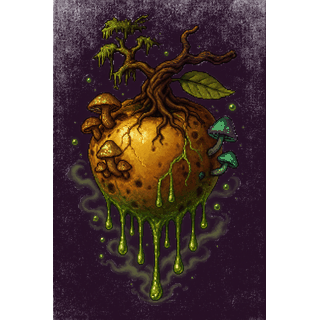
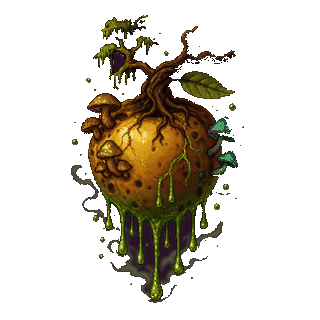
Árvore: maçãs douradas nos 7 nós de fruto (entrega A do handoff de 2026-09-25)
- drawFruit() desenha a arte aprovada 320x320 no lugar do polígono
  procedural; quadro de 150 px no zoom 1 (decisão do usuário), raio de
  clique acompanha (min. 22 px de toque), coordenadas inalteradas
- fruto bloqueado: versão acromática assada 1x + correntes_cadeados
  (Deserto usa a variante do bioma); Pálida: branca + correntes_tranca
- sem número no fruto (decisão do usuário): a trajetória 1-7 se lê pelo
  caminho dos galhos; rodapé ajustado
- MANIFEST: 7 maca_* + 3 correntes_* no boot; ASSET_V 20260925
- fruitAssetName(): mapeamento topo->palida único (jogo + teste)
- assets.mjs: 2 checks novos (maçãs e correntes no boot)
- corrige fundo violeta opaco/residual em 9 PNGs (crescimento de região
  a partir das bordas; muda só o alfa do fundo, arte intacta)
- MEGA_ARQUIVO, PROXIMOS_PASSOS e README de game/assets/ui atualizados;
  docs.mjs íntegro (6 documentos, 109554 bytes)

Testes: npm test 25/25; inspect 30 cenas sem erros/404/glifos;
inspect:tree PC/mobile 60 FPS; inspect:layout 108 estados limpos;
mobile.mjs ok

diff --git a/game/js/meta.js b/game/js/meta.js
@@ -10,7 +10,7 @@ import { SFX } from "./audio.js";
 import { clamp, TAU } from "./utils.js";
 import {
   TREE_ART, TREE_NODES, TREE_BY_ID, TREE_ALL, TREE_STAGE_NODES, TREE_STAGE_BOUNDS,
-  TREE_NODE_RADII, fruitCenter, fruitGridSlot,
+  TREE_NODE_RADII, fruitCenter, fruitGridSlot, fruitAssetName,
 } from "./tree_layout.js";
 import { treeArtCanvas, treeGrowth } from "./tree_art.js";
 
@@ -83,7 +83,7 @@ function pickAt(x, y) {
   }
   for (let i = 0; i < 7; i++) {
     const p = fruitPoints[i], d = Math.hypot(x - p.x, y - p.y);
-    if (d < Math.max(22, 60 * zoom) && d < nearest) {
+    if (d < Math.max(22, FRUIT_FRAME / 2 * zoom) && d < nearest) {
       nearest = d; hoverFruit = FRUIT_TREES[i]; hoverNode = null;
     }
   }
@@ -217,21 +217,69 @@ function drawNode(ctx, n) {
     drawText(ctx, label, p.x, py + 1, { align: "center", scale, color: lvl >= max ? "#ffd479" : unlocked ? PAL.text : PAL.textDim });
   }
 }
+// Maçãs dos frutos (entrega A do handoff, 2026-09-27): a arte aprovada
+// 320×320 substitui o polígono procedural. Quadro de 150 px no zoom 1
+// (decisão do usuário); o raio de clique acompanha o quadro — a
+// coordenada do fruto NUNCA muda (validada pelo treemap.mjs).
+// Sem número no fruto: a trajetória 1→7 se lê pelo caminho dos galhos
+// (decisão do usuário, 2026-09-27 — o número segue na lista de patamares).
+const FRUIT_FRAME = 150;
+const FRUIT_GRAY = new Map();
+
+/** Versão acromática da maçã, assada UMA vez e cacheada — mesmo critério do
+ *  `tree_art.js`: sem cor = mundo ainda não conquistado. Só muda o RGB dos
+ *  pixels opacos; o alfa (e a silhueta) ficam intocados. */
+function fruitGray(key) {
+  let g = FRUIT_GRAY.get(key);
+  if (!g) {
+    const src = IMG[key];
+    g = document.createElement("canvas");
+    g.width = src.width; g.height = src.height;
+    const c = g.getContext("2d");
+    c.imageSmoothingEnabled = false;
+    c.drawImage(src, 0, 0);
+    const d = c.getImageData(0, 0, g.width, g.height);
+    const px = d.data;
+    for (let i = 0; i < px.length; i += 4) {
+      if (!px[i + 3]) continue;
+      const l = Math.round(px[i] * .2126 + px[i + 1] * .7152 + px[i + 2] * .0722);
+      px[i] = px[i + 1] = px[i + 2] = l;
+    }
+    c.putImageData(d, 0, 0);
+    FRUIT_GRAY.set(key, g);
+  }
+  return g;
+}
+
 function drawFruit(ctx, fruit, i) {
-  const p = fruitPoints[i], r = clamp(60 * zoom, 12, 30);
+  const p = fruitPoints[i], s = FRUIT_FRAME * zoom;
+  const r = s / 2 + 8; // aro + margem, para o corte fora da tela
   if (p.x + r < TREE_VIEW.x || p.x - r > TREE_VIEW.x + viewWidth() || p.y + r < TREE_VIEW.y || p.y - r > TREE_VIEW.y + TREE_VIEW.h) return;
   const unlocked = isFruitUnlocked(fruit.map), hot = hoverFruit === fruit;
-  // Fruto em âmbar facetado, com caule/folha pixelados e número do mundo.
-  ctx.fillStyle = unlocked ? "#a6ae70" : "#817988";
-  ctx.fillRect(Math.round(p.x - 2), Math.round(p.y - r - 7), 4, 9);
-  ctx.fillRect(Math.round(p.x + 2), Math.round(p.y - r - 7), 9, 4);
-  ctx.fillStyle = unlocked ? fruit.color : "#35303e";
-  ctx.strokeStyle = hot ? "#fff0c7" : unlocked ? "#ffd479" : "#a69aa9";
-  ctx.lineWidth = hot ? 3 : 2; nodePath(ctx, p.x, p.y, r, 2); ctx.fill(); ctx.stroke();
-  drawText(ctx, String(i + 1), p.x, p.y - 9, { align: "center", scale: .85, color: unlocked ? "#19131d" : "#ebe4f3" });
+  const locked = !unlocked && !fruit.pending;
+  const key = "maca_" + fruitAssetName(fruit);
+  const img = IMG[key];
+  if (img) {
+    ctx.imageSmoothingEnabled = false;
+    ctx.drawImage(locked ? fruitGray(key) : img, Math.round(p.x - s / 2), Math.round(p.y - s / 2), s, s);
+    if (locked) {
+      // Cadeado sobre o fruto bloqueado (decisão do usuário); o Deserto usa a
+      // variante do bioma, como manda a regra "cadeados seguem as maçãs".
+      const k = IMG[fruit.map === "deserto" ? "correntes_deserto" : "correntes_cadeados"];
+      if (k) { const ls = 54 * zoom; ctx.drawImage(k, Math.round(p.x - ls / 2), Math.round(p.y - ls / 2), ls, ls); }
+    } else if (fruit.pending) {
+      // Selo do mundo 7: corrente com três cadeados atravessando a Pálida —
+      // fruto futuro, não abre nesta versão (fruits.mjs/fruit-powers.mjs guardam).
+      const t = IMG["correntes_tranca"];
+      if (t) { const ts = s * 1.1; ctx.drawImage(t, Math.round(p.x - ts / 2), Math.round(p.y - ts / 2), ts, ts); }
+    }
+    ctx.strokeStyle = hot ? "#fff0c7" : unlocked ? "#ffd479" : "#a69aa9";
+    ctx.lineWidth = hot ? 2.5 : 1.5;
+    ctx.beginPath(); ctx.arc(p.x, p.y, s / 2 + 4 * zoom, 0, TAU); ctx.stroke();
+  }
   if (zoom >= .32 && (focusedStage === i + 1 || hot)) {
     const label = fruit.pending ? "FRUTO FUTURO" : unlocked ? "ABRIR FRUTO" : "FRUTO BLOQUEADO";
-    drawText(ctx, label, clamp(p.x, TREE_VIEW.x + 66, TREE_VIEW.x + viewWidth() - 66), p.y - r - 25, { align: "center", scale: .60, color: unlocked ? fruit.color : PAL.textDim, maxWidth: 132 });
+    drawText(ctx, label, clamp(p.x, TREE_VIEW.x + 66, TREE_VIEW.x + viewWidth() - 66), p.y - s / 2 - 14, { align: "center", scale: .60, color: unlocked ? fruit.color : PAL.textDim, maxWidth: 132 });
   }
 }
 
@@ -292,7 +340,7 @@ function drawTreeHUD(ctx, growth) {
   if (button(ctx, { x: 366, y: 492, w: 44, h: 44, compact: true, label: "+", id: "treeZoomIn" })) zoomAt(1.25);
   const note = focusedStage ? (treeStageRequirement(focusedStage) || "GALHO " + focusedStage + " • SELECIONE PARA LER") : metaLevel("raiz") ? "DA RAIZ À COPA • ESCOLHA UM GALHO" : "COMECE PELA RAIZ ANCESTRAL";
   drawText(ctx, note, 426, 496, { scale: .67, color: "#ddc9a6", maxWidth: 504 });
-  drawText(ctx, "FRUTOS NUMERADOS ABREM HABILIDADES • ZOOM " + Math.round(zoom * 100) + "%", 426, 517,
+  drawText(ctx, "FRUTOS ABREM HABILIDADES • ZOOM " + Math.round(zoom * 100) + "%", 426, 517,
     { scale: .55, color: PAL.textDim, maxWidth: 504 });
   return null;
 }

diff --git a/game/js/assets.js b/game/js/assets.js
@@ -5,6 +5,22 @@
 const MANIFEST = {
   // Árvore ancestral aprovada: recorte RGBA, a saturação é restaurada em cache.
   tree_ancestral: "ui/tree_ancestral.png",
+  // Maçãs dos sete mundos (douradas; a Pálida é branca) — 320×320, no boot:
+  // a Árvore desenha os frutos na copa (+~1,2 MB aceitos, 2026-09-25).
+  maca_planicie: "ui/maca_planicie.png",
+  maca_floresta: "ui/maca_floresta.png",
+  maca_pantano: "ui/maca_pantano.png",
+  maca_deserto: "ui/maca_deserto.png",
+  maca_outono: "ui/maca_outono.png",
+  maca_gelo: "ui/maca_gelo.png",
+  maca_palida: "ui/maca_palida.png",
+  // Correntes e cadeados: selo de fruto bloqueado (o Deserto tem variante
+  // do bioma) e a tranca com três cadeados, selo do fruto 7 (Pálida, futuro).
+  correntes_cadeados: "ui/correntes_cadeados.png",
+  correntes_deserto: "ui/correntes_deserto.png",
+  correntes_tranca: "ui/correntes_tranca.png",
+  // Os santuarios_<mundo>.png (960×540, ~5,1 MB) NÃO entram aqui: são
+  // carregados sob demanda na tela do santuário (entrega B do handoff).
   // névoa — manto de fog branca dos inimigos (spritesheet 6x48x48)
   fog_mantle: "sprites/fx/fog_mantle.png",
   // formigas
@@ -159,7 +175,7 @@ const WROT = {};         // silhuetas brancas rotacionadas (hit flash)
 // ANTIGA nos mesmos nomes de arquivo (foi assim que o rework dos inimigos da
 // Fase 2 "não apareceu" para quem já tinha jogado antes dele).
 // ---------------------------------------------------------------------------
-export const ASSET_V = "20260924-tree-ancestral";
+export const ASSET_V = "20260925-macas-santuarios";
 
 /**
  * URL final de um asset do jogo: base certa para a página atual + anti-cache.

diff --git a/game/js/tree_layout.js b/game/js/tree_layout.js
@@ -28,6 +28,11 @@ const FRUIT_SLOTS = [[92, 382], [708, 324], [99, 259], [675, 203], [190, 132], [
 const FRUIT_POSITIONS = FRUIT_SLOTS.map(p => at(...p));
 export function fruitCenter(i) { return FRUIT_POSITIONS[i]; }
 
+// Nome de asset do fruto: o mundo 7 é "topo" em config.js e "palida" nas
+// artes aprovadas (maca_palida, santuario_palida). Mapeamento único, usado
+// pelo jogo e pelos testes — nunca mais espalhar "topo"→"palida" à mão.
+export function fruitAssetName(fruit) { return fruit.map === "topo" ? "palida" : fruit.map; }
+
 // Regiões orgânicas da cor (coordenadas da imagem, não da interface).
 // Raízes/tronco baixo pertencem ao galho inicial; a copa pertence ao sétimo.
 export const TREE_COLOR_REGIONS = [

diff --git a/MEGA_ARQUIVO.md b/MEGA_ARQUIVO.md
@@ -29,10 +29,83 @@ repetições, datas, branches, checklists e notas históricas foram preservados.
 > Divergências permanecem visíveis, sem apagar conteúdo. O que efetivamente
 > funciona deve ser confirmado por testes e inspeção no preview.
 
+## Entrega — Maçãs douradas nos nós da Árvore (entrega A, 2026-09-27)
+
+**Status: implementado e verificado.** Este registro **substitui parcialmente** o status da
+entrega de 2026-09-25 (“A INTEGRAÇÃO na interface ainda NÃO foi feita”): a **entrega A** do
+contrato `PROXIMOS_PASSOS_DA_ARVORE.md` (maçã no nó do fruto da Árvore) está pronta. As
+entregas **B** (tela do Santuário com flores) e **C** (cadeados nas flores) seguem
+pendentes — o handoff continua sendo o contrato delas.
+
+### Decisões do usuário (perguntas da Regra 1, 2026-09-27)
+
+1. **Tamanho:** quadro de **150 px** no zoom 100% (maçã ~90 px); o raio de clique acompanha
+   o quadro (mínimo 22 px de toque); a coordenada do fruto não muda.
+2. **Cadeado:** sim — fruto bloqueado = maçã **acinzentada + `correntes_cadeados`** pequeno
+   sobre ela (o Deserto usa `correntes_deserto`, variante do bioma).
+3. **Pálida:** maçã branca com `correntes_tranca` (corrente + 3 cadeados) atravessando o
+   fruto; estado futuro, nenhuma mudança de comportamento.
+4. **Número do mundo: RETIRADO dos frutos** (decisão do usuário, que sobrepõe a nota
+   “nunca esconder o número” do contrato): a trajetória 1→7 é percebida de forma orgânica
+   pelo caminho dos galhos; os números seguem na lista de patamares do HUD esquerdo. O
+   rodapé passou de “FRUTOS NUMERADOS ABREM HABILIDADES” para “FRUTOS ABREM HABILIDADES”.
+
+### O que mudou
+
+- `game/js/assets.js`: `MANIFEST` ganhou as 7 `maca_*` e as 3 `correntes_*` (boot,
+  +~1,5 MB); `ASSET_V` → `"20260925-macas-santuarios"`. Os `santuario_*` continuam FORA do
+  boot (sob demanda, entrega B).
+- `game/js/tree_layout.js`: `fruitAssetName(fruit)` — mapeamento único do mundo 7
+  (`topo` → `palida`), usado pelo jogo e pelo teste de assets.
+- `game/js/meta.js`: `drawFruit()` substituiu o polígono procedural pela arte 320×320
+  (`imageSmoothingEnabled = false`), com aro de estado (âmbar = aberto, cinza = fechado,
+  amarela = hover), rótulos inalterados (`ABRIR FRUTO` / `FRUTO BLOQUEADO` / `FRUTO FUTURO`),
+  versão acromática assada uma vez por fruto (mesmo critério do `tree_art.js`) e `pickAt()`
+  com raio = quadro (mín. 22 px). Sem número no fruto.
+- `game/test/assets.mjs`: dois checks novos (maçãs dos mundos no boot; correntes/cadeados no
+  boot) — o teste acusaria se algum dos 10 PNGs saísse do `MANIFEST`.
+- `game/assets/ui/README.md`: seção documentando os novos PNGs.
+
+### Correção de asset (fundo violeta dos PNGs preparados)
+
+Sete arquivos chegaram com o fundo violeta **opaco ou residual** (`maca_floresta`,
+`maca_outono`, `maca_gelo`, `maca_palida`, `correntes_cadeados`, `correntes_deserto`,
+`correntes_tranca` — a remoção do preparo de 2026-09-25 só limparia totalmente
+`maca_planicie`; `maca_pantano` e `maca_deserto` tinham ainda resíduo semitransparente
+visível em jogo). O fundo foi removido por **crescimento de região a partir das bordas**
+(BFS; critério “violeta de fundo = canal verde ≤ vermelho E azul”; distância por passo ≤ 40;
+guarda ≤ 130): só o fundo conectado à moldura vira transparente. A arte interna —
+incluindo as rachaduras roxas da Pálida e os elos escuros das correntes — foi preservada.
+Nenhum pixel da arte foi redimensionado, recortado ou borrado; mudou apenas o alfa do
+fundo. Os originais aprovados seguem fora do Git (`art-source/`, gitignorado), como manda
+o contrato.
+
+### Verificação
+
+- `npm run test:quick` e `npm test`: **25/25** (incluindo os 2 checks novos de assets).
+- `npm run inspect`: 30 cenas PC/mobile, sem erros JS, 404 ou glifos.
+- `npm run inspect:tree`: PC e mobile — seleção real pelos 7 frutos, arte cinza/cor,
+  7 galhos, gates, compras, saves, arrasto/pinça, Renascimento — 60 FPS.
+- `npm run inspect:layout`: **108 estados limpos** (fonte normal e grande, PC e mobile).
+- `node game/test/mobile.mjs`: boot → expedição só com toque, saves isolados, OK.
+- Capturas dos estados (bloqueado/aberto/Pálida) conferidas em zoom, PC e mobile.
+- Preview no ar: `npm run serve` (0.0.0.0:8000).
+
+### Limitações e próximos passos
+
+- Cadeado e tranca em escala pequena saem um pouco “pontilhados” (pixel art fina da
+  corrente perde elos ao redimensionar); legíveis nos tamanhos de uso (~54 px e ~165 px).
+  Aceito para a entrega A.
+- **Entrega B** (tela do Santuário: fundo 1:1, maçã em névoa, 13 flores, `loadSantuario`
+  sob demanda) e **C** (cadeados nas flores do Santuário) — ver
+  `PROXIMOS_PASSOS_DA_ARVORE.md` (seções 2.B, 2.C e 4).
+
 ## Entrega — Sete maçãs douradas e sete santuários de bioma (2026-09-25)
 
 **Status: as 17 artes foram geradas, escolhidas pelo usuário (2 opções por imagem, Regra 6) e
-processadas para o jogo. A INTEGRAÇÃO na interface ainda NÃO foi feita.** Este registro
+processadas para o jogo. A INTEGRAÇÃO da entrega A (maçãs nos nós da Árvore) foi feita em
+2026-09-27 — ver a seção acima; as entregas B (Santuário) e C (cadeados nas flores) ainda NÃO
+foram feitas.** Este registro
 **substitui a pendência** "sete maçãs douradas estilizadas por mapa e as respectivas telas com a
 direção Santuário do bioma" descrita em *Preparação para PR — árvore concluída, maçãs e santuários
 pendentes (2026-09-24)*: a arte existe agora; o código que a exibe continua pendente e está

diff --git a/PROXIMOS_PASSOS_DA_ARVORE.md b/PROXIMOS_PASSOS_DA_ARVORE.md
@@ -2,8 +2,10 @@
 
 **Criado em:** 25 de setembro de 2026
 **Autor da entrega anterior:** sessão `arena/01a0d9d6-fumiga-goat` (arte gerada e aprovada)
-**Status:** **arte pronta e aprovada; código NÃO integrado.** Este documento é o contrato de
-execução para o próximo chat: leia-o inteiro antes de escrever qualquer linha de código.
+**Status:** **entrega A implementada e verificada (2026-09-27 — maçãs nos nós da Árvore;
+decisões, correção do fundo dos PNGs e evidências na seção de 2026-09-27 do
+`MEGA_ARQUIVO.md`). Entregas B e C PENDENTES.** Este documento continua sendo o contrato de
+execução de B e C: leia-o inteiro antes de escrever qualquer linha de código.
 
 ---
 
@@ -97,7 +99,15 @@ python3 tools/prepare_fruit_art.py maca art-source/macas/02-floresta.png saida.p
 Três entregas, na ordem: **(A)** maçã no nó do fruto da Árvore, **(B)** tela do Santuário com as
 melhorias como flores, **(C)** correntes/cadeados nos estados. Depois: testes, mobile, docs, PR.
 
-### A. Maçã dourada no nó do fruto (Árvore)
+> **Atualização (2026-09-27):** a entrega **A** foi implementada, verificada e mergeada em
+> `main` (evidências na seção de 2026-09-27 do `MEGA_ARQUIVO.md`). Divergências em relação
+> ao texto de A abaixo, por decisão do usuário: o fruto **não exibe número** (a trajetória
+> 1→7 se lê pelo caminho dos galhos); o quadro da maçã é **150 px** no zoom 1; e o fundo
+> violeta dos 7 PNGs que chegaram com fundo opaco/residual foi limpo por crescimento de
+> região (só o alfa do fundo mudou). O texto de A fica como referência de contexto; o
+> trabalho restante é **B** e **C**.
+
+### A. Maçã dourada no nó do fruto (Árvore) — ✅ implementado em 2026-09-27
 
 Hoje `drawFruit()` em `game/js/meta.js` (~linha 224) desenha um **polígono procedural** (âmbar
 facetado + número do mundo). Trocar por `IMG["maca_" + fruit.map]`, mantendo **tudo** o que já

diff --git a/game/assets/ui/README.md b/game/assets/ui/README.md
@@ -65,3 +65,24 @@ pixel. `tree_art.js` assa uma versão acromática e restaura saturação por reg
 os níveis comprados (incluindo os frutos obtíveis). Mescla suave entre regiões; cache
 reconstruído somente quando níveis mudam. A imagem aprovada volta integralmente em
 100%; fonte grande, alto contraste e efeitos reduzidos não alteram compras/progresso.
+
+## Maçãs dos mundos e correntes/cadeados (2026-09-25, integração em 2026-09-27)
+
+- `maca_<mundo>.png` — **320×320 RGBA**, 7 arquivos (~1,2 MB): as maçãs douradas dos seis
+  mundos e a Pálida branca (`maca_palida`; o mundo 7 é `topo` em config.js e `palida`
+  nas artes — mapeamento único em `fruitAssetName()`, `js/tree_layout.js`). Carregadas no
+  boot (`MANIFEST` de `js/assets.js`) e desenhadas nos nós da copa por `drawFruit()` em
+  `js/meta.js` (bloqueado = acinzentada + cadeado; Pálida = branca + `correntes_tranca`).
+- `correntes_cadeados.png` / `correntes_deserto.png` — **256×256 RGBA**: cadeado + corrente;
+  selo do fruto bloqueado (o Deserto tem variante do bioma).
+- `correntes_tranca.png` — **192×192 RGBA**: corrente com três cadeados; selo do fruto 7
+  (Pálida, estado futuro).
+- `santuario_<mundo>.png` — **960×540 RGB**, 7 arquivos (~5,1 MB): fundos da tela do
+  Santuário, **fora do boot de propósito** — serão carregados sob demanda na entrega B.
+- **Fundo:** todos os PNGs acima têm o fundo violeta removido (alfa 0). A remoção original
+  do preparo de 2026-09-25 só limparia `maca_planicie`; em 2026-09-27 o fundo restante
+  (opaco ou semitransparente nos outros 9) foi limpo por crescimento de região a partir das
+  bordas (critério “verde ≤ vermelho e azul”), sem tocar os pixels da arte.
+- Originais de alta resolução: `art-source/macas/`, `art-source/santuarios/`,
+  `art-source/comuns/` (fora do Git, como `_orig/` da TITLE). Pipeline:
+  `python3 tools/prepare_fruit_art.py all`.
